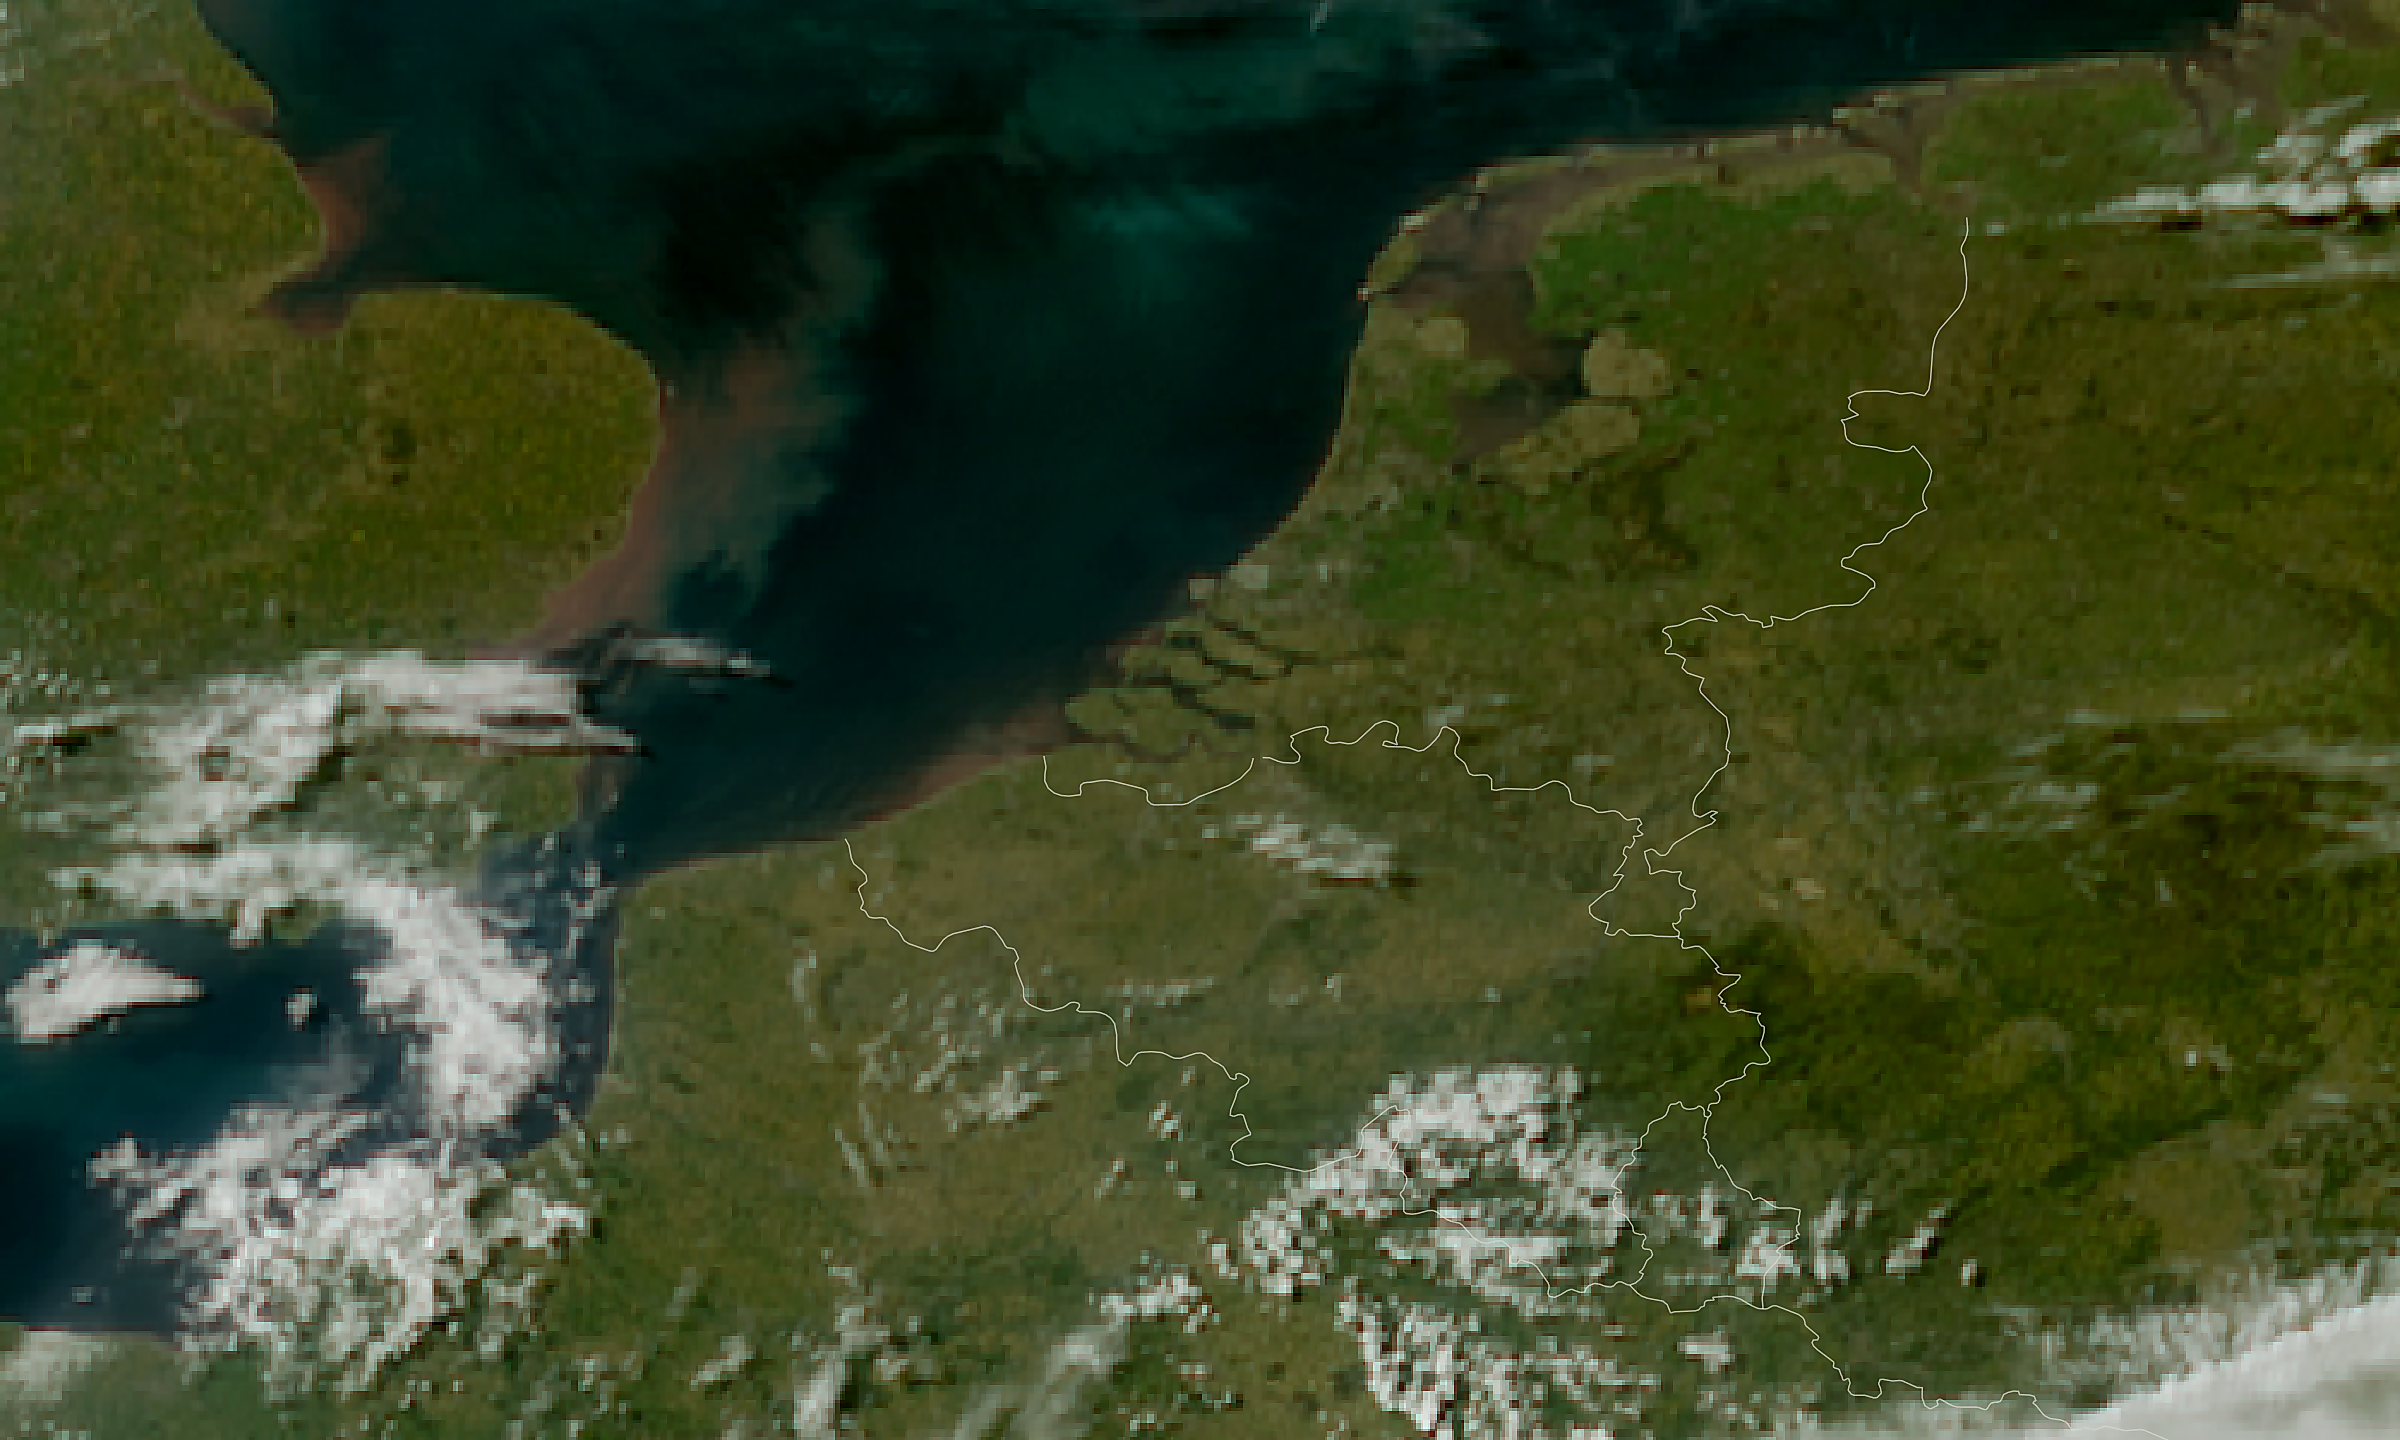
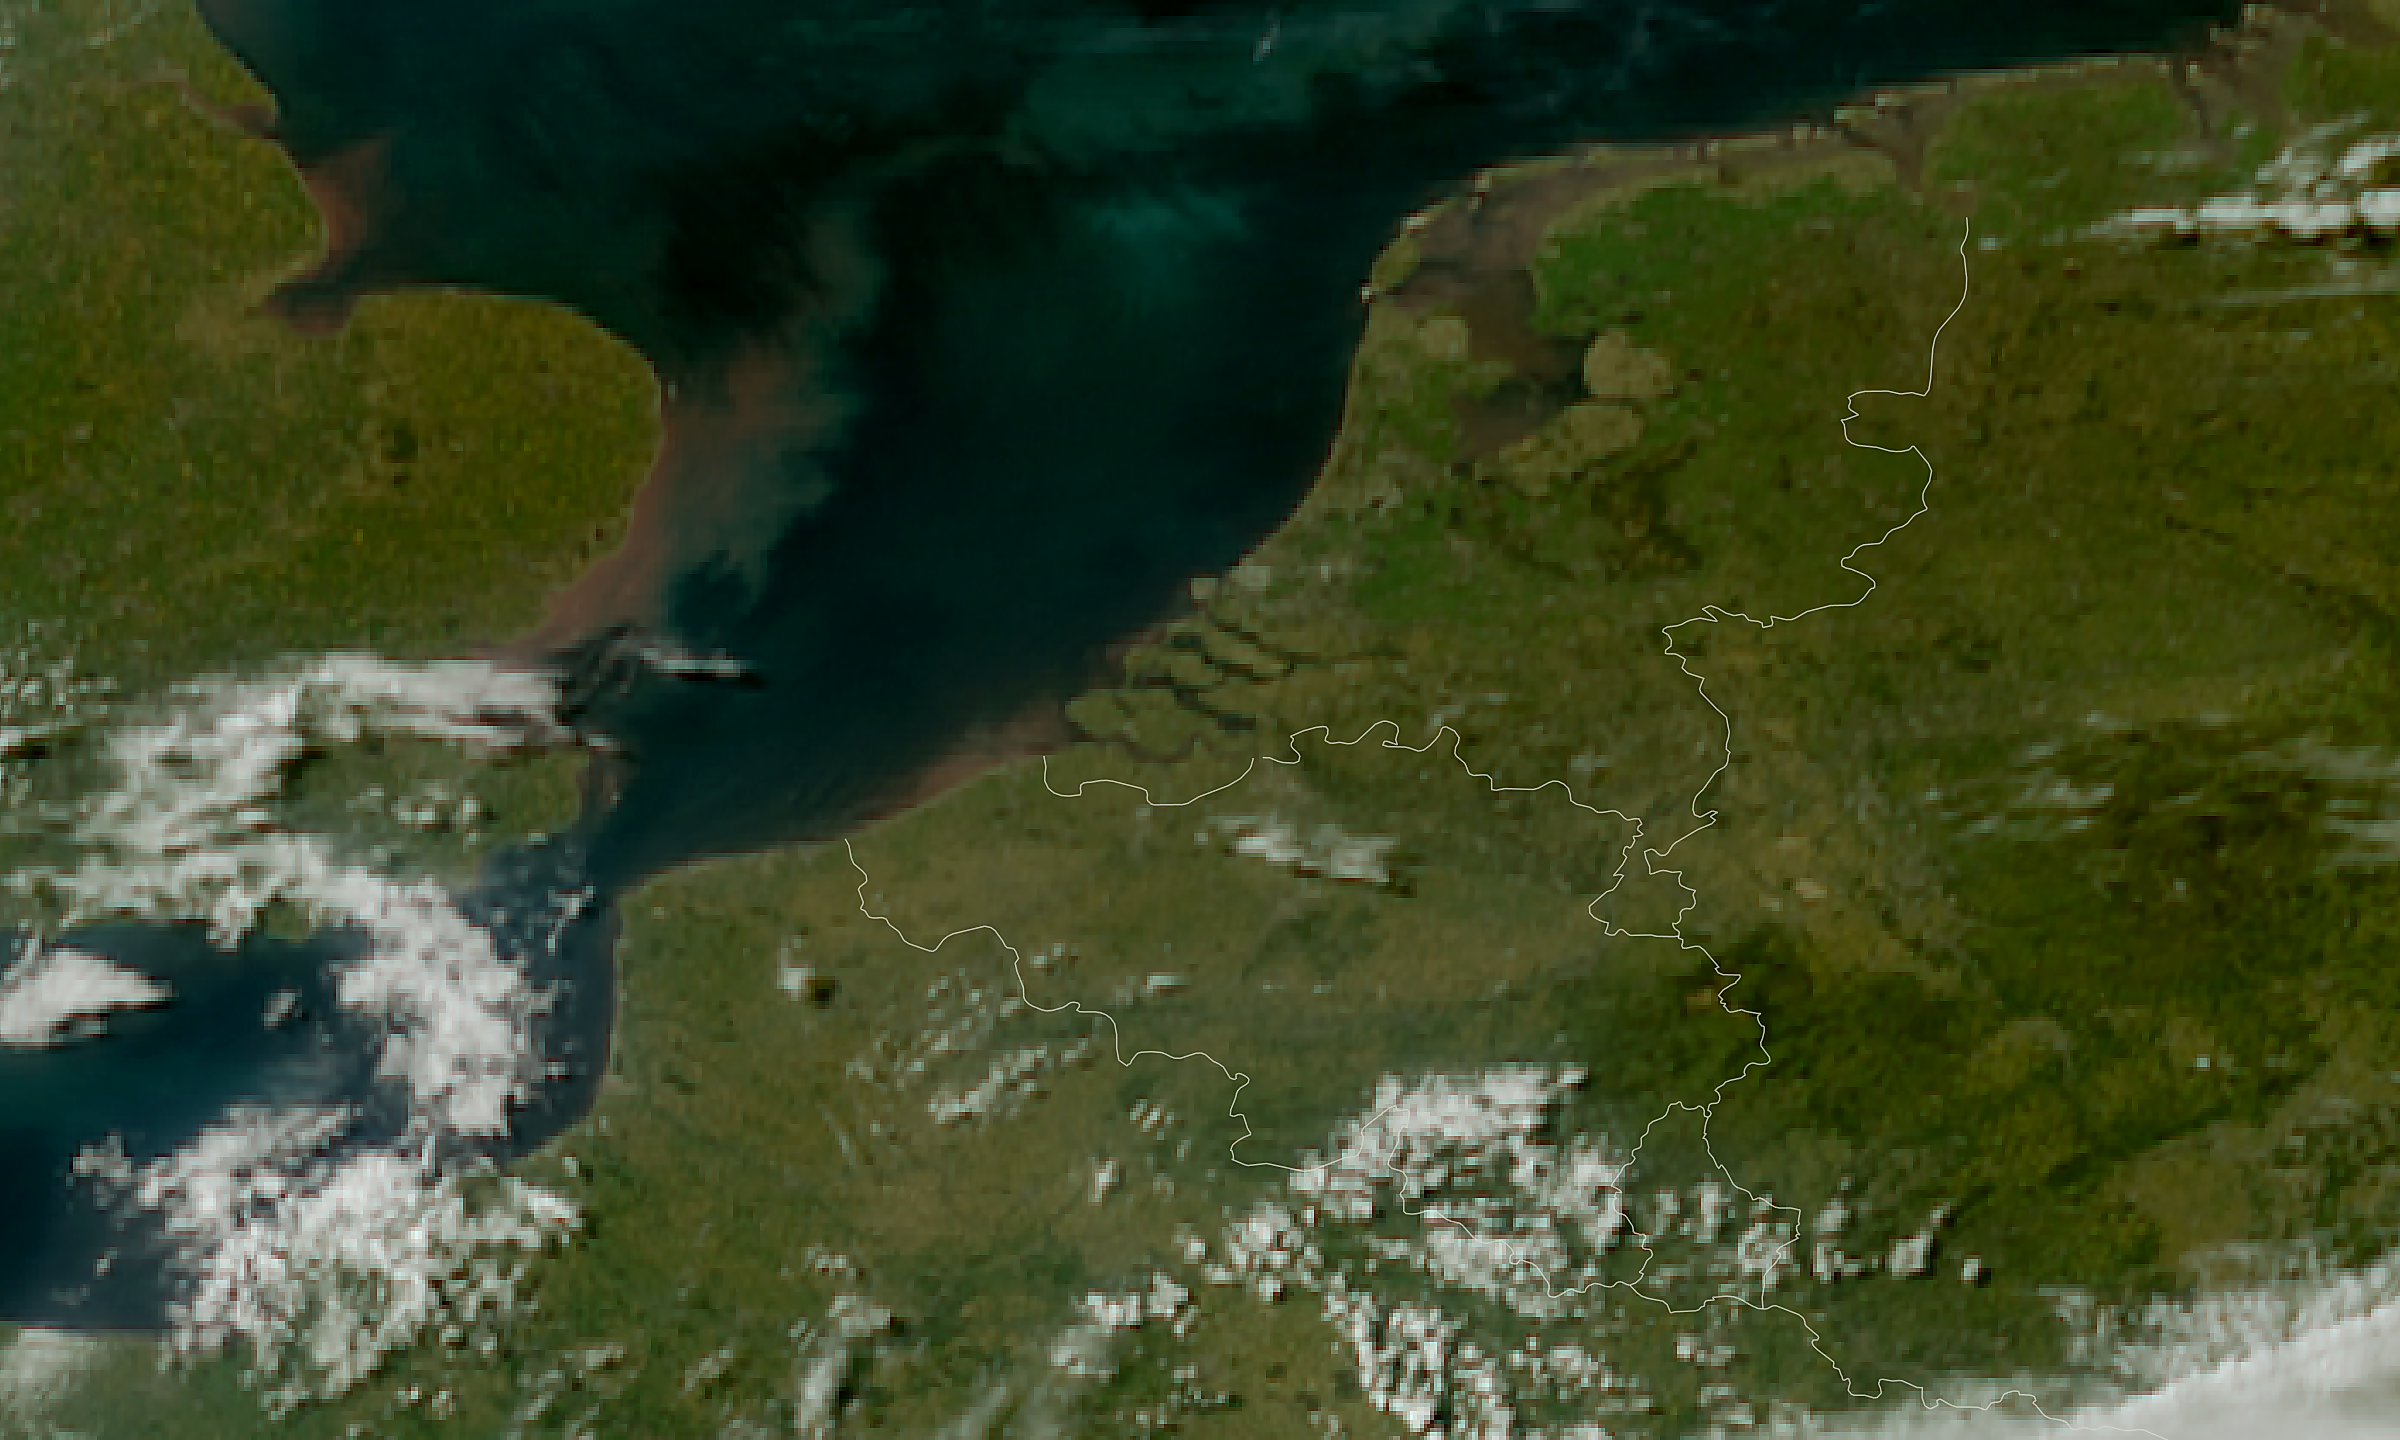
MTG Benelux satellietbeeld update 2026-04-28 18:00

diff --git a/mtg_benelux_meta.js b/mtg_benelux_meta.js
@@ -1,2 +1,2 @@
 const MTG_BENELUX_PRODUCT = "mtg_fd:rgb_truecolour";
-const MTG_BENELUX_TIJD = "2026-04-28T15:20:00Z";
+const MTG_BENELUX_TIJD = "2026-04-28T15:40:00Z";
